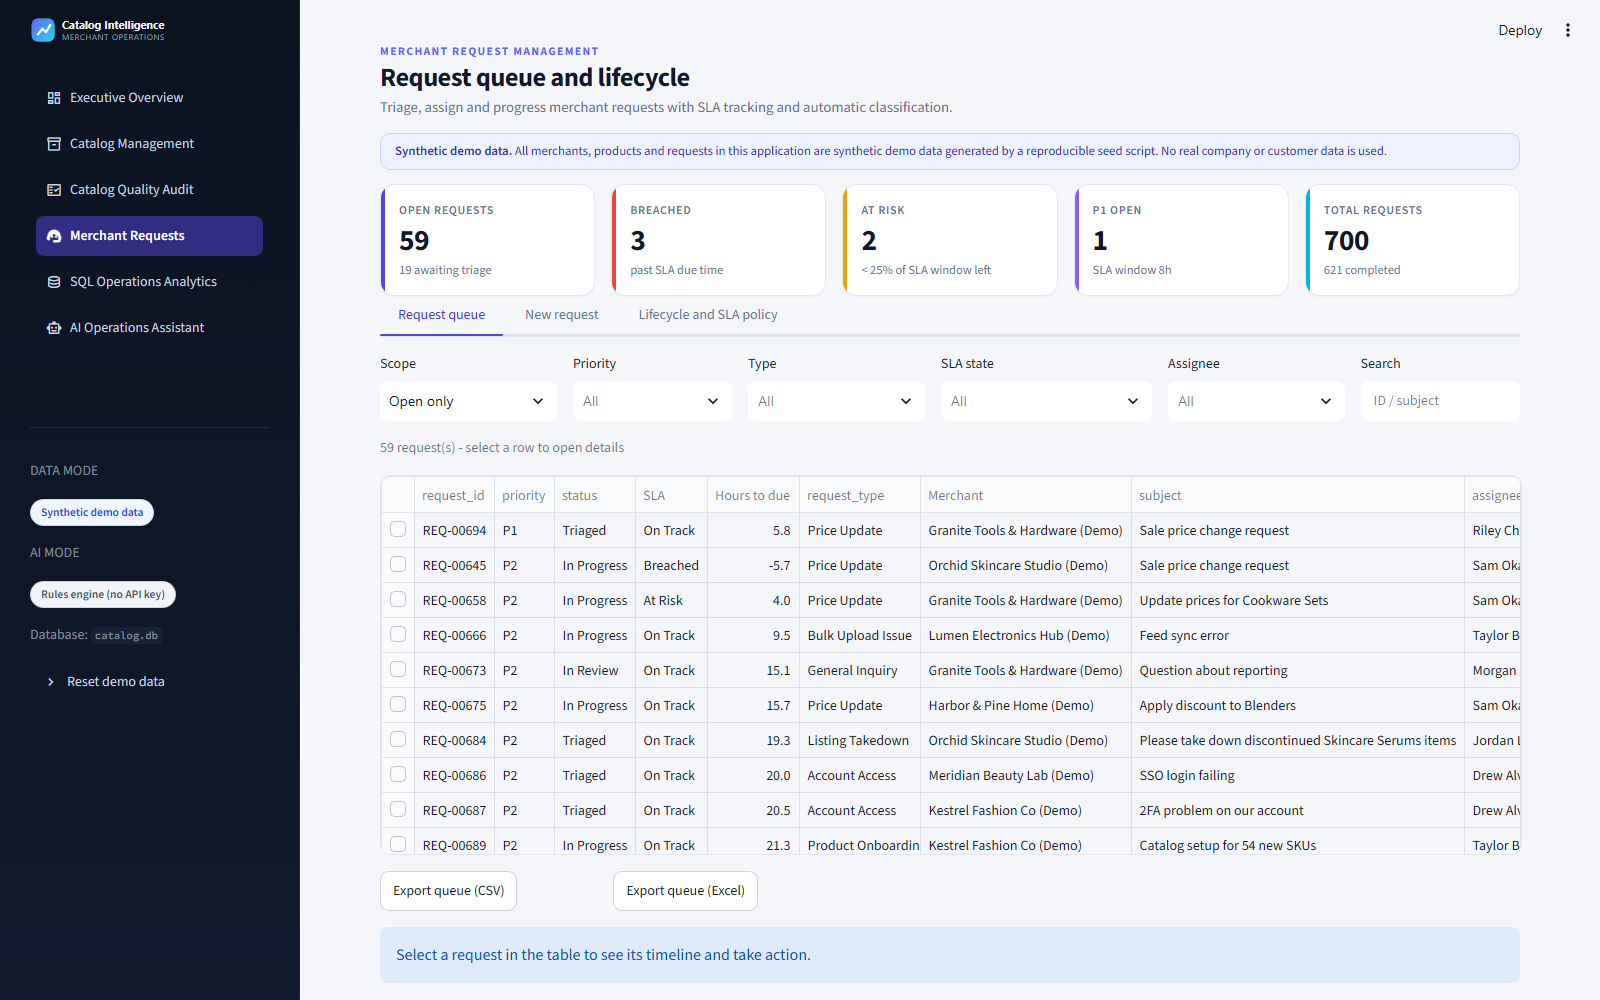
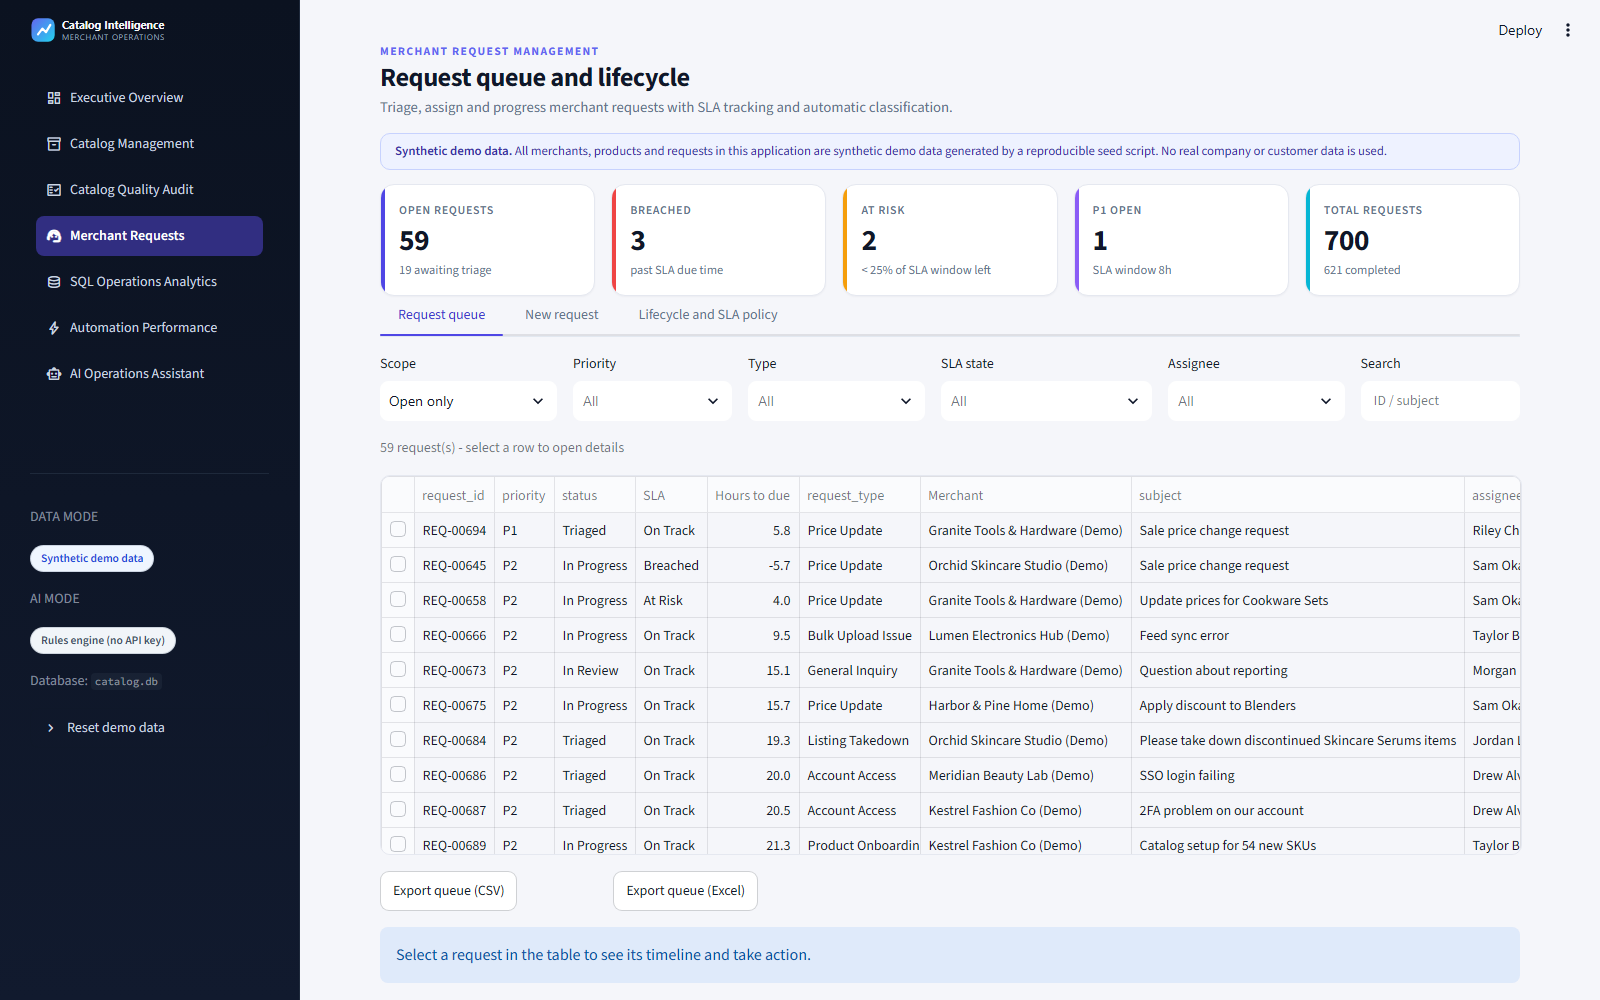
Add Automation Performance dashboard page and refresh screenshots
Generated with [Devin](https://devin.ai)

Changed region(s): [[0.0, 0.465, 0.125, 0.744], [0.0312, 0.372, 0.125, 0.403], [0.0312, 0.31, 0.125, 0.341]]

diff --git a/ui/p_automation.py b/ui/p_automation.py
@@ -1,0 +1,246 @@
+import json
+import time
+
+import pandas as pd
+import plotly.express as px
+import plotly.graph_objects as go
+import streamlit as st
+
+from catalog_intel import roi
+from catalog_intel.automation import Source, ensure_sandbox, load_history, reset_sandbox, run_pipeline
+from catalog_intel.config import ROOT, get_db_path
+from catalog_intel.db import query_df
+from catalog_intel.seed import MERCHANTS
+from catalog_intel.workload import generate_workload
+from ui.common import db, download_table, fmt_num, kpi_row, page_header, pill, section, show_fig
+
+MEASUREMENTS = ROOT / "docs" / "automation" / "measurements.json"
+COLORS = {"manual": "#f59e0b", "python": "#4f46e5", "rpa": "#06b6d4"}
+
+
+@st.cache_data(show_spinner=False)
+def load_measurements(mtime: float) -> dict | None:
+    return json.loads(MEASUREMENTS.read_text(encoding="utf-8")) if MEASUREMENTS.exists() else None
+
+
+def _legend() -> None:
+    st.markdown(
+        pill("MEASURED = timed by running the code", "good") + " &nbsp; " + pill("ESTIMATED = assumption-based (manual work was never timed)", "warn")
+        + " &nbsp; " + pill("SYNTHETIC data only", "info"), unsafe_allow_html=True,
+    )
+
+
+def render() -> None:
+    page_header("Automation Performance", "Automation impact dashboard", "Python automation and UI-driven RPA versus an estimated manual workflow, on an identical synthetic workload.")
+    _legend()
+    m = load_measurements(MEASUREMENTS.stat().st_mtime if MEASUREMENTS.exists() else 0.0)
+    with db(readonly=True) as c:
+        hist = load_history(c, 200)
+    if m is None:
+        st.warning("No measurement file found. Run `python scripts/measure_automation.py` to create docs/automation/measurements.json.")
+
+    tab_ba, tab_q, tab_m, tab_run, tab_hist = st.tabs(["Before / after", "Quality and errors", "Monthly estimate", "Run automation", "Run history"])
+
+    with tab_ba:
+        if m:
+            _before_after(m, hist)
+    with tab_q:
+        if m:
+            _quality(m)
+    with tab_m:
+        if m:
+            _monthly(m)
+    with tab_run:
+        _run_panel()
+    with tab_hist:
+        _history(hist)
+
+
+def _before_after(m: dict, hist: pd.DataFrame) -> None:
+    w, E, M = m["workload"], m["ESTIMATED"], m["MEASURED"]
+    py, rpa = M["python_automation"], M["ui_rpa"]
+    rows_done = int(hist["rows_valid"].sum()) if len(hist) else 0
+    kpi_row([
+        ("Time saved, end-to-end", fmt_num(E["time_saved_pct_python"], "%"), "<b>ESTIMATED</b> manual vs <b>MEASURED</b> run + est. human review", "#10b981"),
+        ("Productivity gain", f"{E['speedup_x_python']:,.1f}x", f"+{E['productivity_gain_pct_python']:,.0f}% - manual time is an <b>estimate</b>", "#4f46e5"),
+        ("Pipeline throughput", f"{py['rows_per_hour'] / 1e6:,.2f}M rows/h", "<b>MEASURED</b> machine time, median of %d runs" % py["runs"], "#06b6d4"),
+        ("Rows processed (history)", fmt_num(rows_done), f"<b>MEASURED</b> across {len(hist)} logged run(s)", "#8b5cf6"),
+        ("Est. monthly time saved", f"{E['monthly_saved_hours_at_4_runs']:,.1f} h", "<b>ESTIMATE</b> at 4 runs/month (see Monthly tab)", "#f59e0b"),
+    ])
+    st.caption(f"Workload: {w['files']} files, {w['rows_total']:,} rows ({w['xlsx_files']} Excel, rest CSV), synthetic, seed {w['seed']}. Measured {m['environment']['measured_at_utc']} UTC on {m['environment']['platform']}, "
+               f"{m['environment']['cpu_count_logical']} logical CPUs.")
+
+    table = pd.DataFrame(E["comparison_table"])
+    tasks = table[table["kind"] == "task"]
+    fig = go.Figure()
+    fig.add_bar(x=tasks["task"], y=tasks["manual_estimated_s"], name="Manual (ESTIMATED)", marker_color=COLORS["manual"], marker_pattern_shape="/")
+    if tasks["rpa_measured_s"].notna().any():
+        fig.add_bar(x=tasks["task"], y=tasks["rpa_measured_s"], name="UI RPA (MEASURED)", marker_color=COLORS["rpa"])
+    fig.add_bar(x=tasks["task"], y=tasks["python_measured_s"], name="Python automation (MEASURED)", marker_color=COLORS["python"])
+    fig.update_layout(barmode="group", yaxis=dict(type="log", title="Seconds (log scale)"), xaxis_title=None, legend_title=None)
+    show_fig(fig, 380, "Time per task - before vs after (same workload)")
+
+    c1, c2 = st.columns(2)
+    with c1:
+        tot = table[table["kind"] == "total_incl_review"].iloc[0]
+        labels, vals, cols = ["Manual (ESTIMATED)", "Python (MEASURED)"], [tot["manual_estimated_s"], tot["python_measured_s"]], [COLORS["manual"], COLORS["python"]]
+        if pd.notna(tot["rpa_measured_s"]):
+            labels.insert(1, "UI RPA (MEASURED)")
+            vals.insert(1, tot["rpa_measured_s"])
+            cols.insert(1, COLORS["rpa"])
+        fig = go.Figure(go.Bar(x=labels, y=vals, marker_color=cols, text=[f"{v:,.0f}s" for v in vals], textposition="outside"))
+        fig.update_layout(yaxis=dict(type="log", title="Total seconds (log)"), showlegend=False)
+        show_fig(fig, 330, "Total workflow time (incl. estimated human review after automation)")
+    with c2:
+        sv = tasks.copy()
+        fig = go.Figure(go.Bar(x=sv["python_time_saved_pct"], y=sv["task"], orientation="h", marker_color=COLORS["python"],
+                               text=[f"{v:.1f}%" for v in sv["python_time_saved_pct"]], textposition="outside", cliponaxis=False))
+        fig.update_yaxes(autorange="reversed")
+        fig.update_layout(xaxis=dict(range=[0, 112], title="% time saved by Python automation (vs ESTIMATED manual)"), yaxis_title=None, showlegend=False)
+        show_fig(fig, 330, "Time saved by task")
+
+    show = table.rename(columns={"manual_estimated_s": "Manual (ESTIMATED) s", "python_measured_s": "Python (MEASURED) s", "rpa_measured_s": "UI RPA (MEASURED) s",
+                                 "python_time_saved_pct": "Python saved %", "python_speedup_x": "Speed-up x", "rpa_time_saved_pct": "RPA saved %"})
+    st.dataframe(show, hide_index=True, width="stretch")
+    st.caption(f"Headline numbers include {E['automation_review_s']:.0f} s of ESTIMATED human review per run that remains after automation; machine time alone would show "
+               f"{E['time_saved_pct_python_machine_only']}% saved ({E['speedup_x_python_machine_only']:,.0f}x), which overstates the benefit. "
+               "UI RPA is browser-driven and excludes human reading/thinking time, so it is a lower bound for a manual click-through. "
+               "Manual time = unit-time assumptions x workload size (see the Monthly tab); it is an estimate, not a stopwatch measurement of people.")
+    s = M["scale_test_python_automation"]
+    if s:
+        st.markdown(f"**Scale test (MEASURED, Python):** {s['rows']:,} rows in {s['files']} files in **{s['seconds_total']} s** ({s['rows_per_second']:,.0f} rows/s), peak memory {s['peak_rss_mb']} MB. "
+                    f"Manual ESTIMATE for the same rows: {s['manual_estimated_total_s'] / 3600:,.1f} h.")
+
+
+def _quality(m: dict) -> None:
+    acc = m["MEASURED"]["detection_accuracy_vs_ground_truth"]
+    tot = acc["TOTAL_omissions"]
+    kpi_row([
+        ("Omissions: automation", fmt_num(tot["automation_missed"]), "defects missed - <b>MEASURED</b>", "#10b981"),
+        ("Omissions: Excel-style baseline", fmt_num(tot["baseline_missed"]), "same data - <b>simulated procedure</b>", "#f59e0b"),
+        ("Omission reduction", fmt_num(tot["omission_reduction_pct"], "%"), "vs the baseline procedure (not vs people)", "#4f46e5"),
+        ("Injected defects", fmt_num(tot["injected_total"]), "ground truth in the synthetic files", "#06b6d4"),
+    ])
+    names = {"duplicate": "Duplicate listings", "price_anomaly": "Price anomalies", "missing_image": "Missing images", "invalid_rows": "Invalid rows"}
+    rows = []
+    for k, label in names.items():
+        a, b = acc[k]["automation"], acc[k]["excel_style_baseline"]
+        rows.append({"defect": label, "injected": a["injected"], "automation_missed": a["missed"], "baseline_missed": b["missed"],
+                     "automation_recall": a.get("recall"), "baseline_recall": b.get("recall"), "automation_precision": a.get("precision"), "baseline_precision": b.get("precision")})
+    df = pd.DataFrame(rows)
+    fig = go.Figure()
+    fig.add_bar(x=df["defect"], y=df["baseline_missed"], name="Excel-style baseline (simulated procedure)", marker_color=COLORS["manual"], marker_pattern_shape="/")
+    fig.add_bar(x=df["defect"], y=df["automation_missed"], name="Automation (MEASURED)", marker_color=COLORS["python"])
+    fig.update_layout(barmode="group", yaxis_title="Defects missed", xaxis_title=None, legend_title=None)
+    show_fig(fig, 340, "Missed defects on the same synthetic files")
+    st.dataframe(df, hide_index=True, width="stretch")
+    st.caption("The baseline encodes what built-in spreadsheet features can do (blank-cell counts, Remove Duplicates on trimmed titles, an IQR fence over the whole price column, blank-image filter). "
+               "It is a deterministic procedure, not a measurement of any person; it shows how much a rule-based pipeline finds that simple spreadsheet checks do not.")
+
+
+def _monthly(m: dict) -> None:
+    w, M = m["workload"], m["MEASURED"]
+    st.markdown("**ESTIMATE calculator.** Everything here is assumption-driven; only the automated run time comes from measurement (scaled linearly with rows).")
+    c1, c2, c3 = st.columns(3)
+    runs = c1.slider("Runs per month", 1, 60, 4)
+    rows = c2.number_input("Rows per run", 100, 200_000, int(w["rows_total"]), step=500)
+    mult = c3.slider("Manual-time multiplier (sensitivity)", 0.25, 3.0, 1.0, 0.25, help="1.0 = the default unit times; 0.5 = analysts are twice as fast as assumed.")
+    with st.expander("Manual unit-time assumptions (seconds) - ESTIMATES, editable"):
+        a = {}
+        cols = st.columns(3)
+        for i, (k, v) in enumerate(roi.DEFAULT_ASSUMPTIONS.items()):
+            a[k] = cols[i % 3].number_input(k.replace("_", " "), 0.0, 5000.0, float(m["ESTIMATED"]["manual_time_assumptions_s"].get(k, v)), key=f"asm_{k}")
+    files = max(1, round(rows / (w["rows_total"] / w["files"])))
+    manual = roi.total(roi.manual_estimate(int(rows), files, a, mult))
+    auto = roi.scale_run_time(M["python_automation"]["sum_of_median_steps_s"], w["rows_total"], int(rows)) + a["automation_review_per_run"]
+    saved = roi.monthly_savings_hours(manual, auto, runs)
+    kpi_row([
+        ("Manual time per run", f"{manual / 3600:,.2f} h", "<b>ESTIMATE</b>", "#f59e0b"),
+        ("Automated time per run", f"{auto / 60:,.2f} min", "<b>MEASURED</b> machine time (scaled linearly) + <b>est.</b> review", "#4f46e5"),
+        ("Time saved / month", f"{saved:,.1f} h", f"<b>ESTIMATE</b> at {runs} runs", "#10b981"),
+        ("Time saved %", fmt_num(roi.time_saved_pct(manual, auto), "%"), "<b>ESTIMATE</b>", "#06b6d4"),
+    ])
+    xs = list(range(1, 61))
+    fig = go.Figure(go.Scatter(x=xs, y=[roi.monthly_savings_hours(manual, auto, r) for r in xs], mode="lines", line=dict(color=COLORS["python"], width=3)))
+    fig.add_vline(x=runs, line_dash="dash", line_color="#64748b")
+    fig.update_layout(xaxis_title="Runs per month", yaxis_title="Estimated hours saved per month", showlegend=False)
+    show_fig(fig, 300, "Estimated monthly time saved (assumption-based)")
+    st.caption("Linear scaling of the automated time is a simplification; the 100,000-row scale test in the first tab is the measured data point for large runs.")
+
+
+def _run_panel() -> None:
+    main_db = get_db_path()
+    sandbox = main_db.parent / "automation_sandbox.db"
+    st.markdown("Run the **Python automation** (collect -> validate -> import -> duplicate / price / image checks -> report -> CSV & Excel export) on synthetic files or your own. "
+                "The default target is an isolated **sandbox catalog**, so the demo data is never modified.")
+    target = st.radio("Target catalog", ["Sandbox (recommended, isolated)", "Demo catalog (modifies demo data)"], horizontal=True)
+    use_main = target.startswith("Demo")
+    if use_main:
+        st.warning("Files will be imported into the demo catalog. Use **Reset demo data** in the sidebar afterwards to restore it.")
+    source = st.radio("Input files", ["Generate synthetic files", "Upload my own CSV/XLSX files"], horizontal=True)
+    sources: list[Source] = []
+    default_merchant = None
+    label = None
+    if source.startswith("Generate"):
+        c1, c2, c3 = st.columns(3)
+        n_files = c1.slider("Files", 1, 10, 4)
+        rows = c2.slider("Rows per file", 50, 500, 200, 50)
+        fresh = c3.checkbox("New random data each run", value=True, help="Off = identical files every time; the automation then skips them as already imported (idempotency).")
+        if st.button("Run Python automation", type="primary", key="run_py_gen"):
+            seed = int(time.time()) % 1_000_000 if fresh else 777
+            wl = generate_workload(n_files, rows, seed=seed)
+            sources = [Source(n, d) for n, d in wl.files]
+            label = f"synthetic ui run seed={seed} files={n_files} rows/file={rows}"
+    else:
+        default_merchant = st.selectbox("Merchant for files not named M-001_*.csv", [m[0] for m in MERCHANTS], format_func=lambda x: dict((m[0], f"{m[0]} - {m[1]}") for m in MERCHANTS)[x])
+        files = st.file_uploader("Files (name them M-001_anything.csv to route by merchant)", type=["csv", "xlsx"], accept_multiple_files=True, key="auto_files")
+        if st.button("Run Python automation", type="primary", key="run_py_upload", disabled=not files):
+            sources = [Source(f.name, f.getvalue()) for f in files]
+            label = "user-uploaded files"
+    if sources:
+        try:
+            target_db = main_db if use_main else ensure_sandbox(sandbox)
+            res = run_pipeline(sources, target_db, history_db=main_db, trigger="ui", target_label="demo" if use_main else "sandbox", workload_label=label, default_merchant=default_merchant)
+            st.session_state["auto_result"] = res
+            if use_main:
+                st.cache_data.clear()
+            st.rerun()
+        except Exception as exc:  # noqa: BLE001
+            st.error(f"Automation could not start: {exc}")
+    res = st.session_state.get("auto_result")
+    if res is not None:
+        (st.success if res.status == "success" else st.warning if res.status in ("partial", "nothing_to_do") else st.error)(
+            f"Run #{res.run_id}: **{res.status}** in {res.seconds_total:.2f} s - {res.totals['files_imported']} imported, {res.totals['files_skipped']} skipped (already imported), "
+            f"{res.totals['files_failed']} failed; {res.totals['rows_valid']:,} valid rows, {res.totals['rows_rejected']} rejected." + (f" Error: {res.error}" if res.error else "")
+        )
+        kpi_row([
+            ("Duplicates found", fmt_num(res.findings_run_scope["duplicates"]), "this run's rows", "#ef4444"),
+            ("Price anomalies", fmt_num(res.findings_run_scope["price_anomalies"]), "this run's rows", "#f59e0b"),
+            ("Missing images", fmt_num(res.findings_run_scope["missing_images"]), "this run's rows", "#06b6d4"),
+            ("Rejected rows", fmt_num(res.totals["rows_rejected"]), "failed validation", "#8b5cf6"),
+        ])
+        st.dataframe(pd.DataFrame([{"step": k, "seconds": v} for k, v in res.step_seconds.items()]), hide_index=True, width="stretch")
+        st.dataframe(pd.DataFrame([{"file": o.name, "merchant": o.merchant_id, "status": o.status, "rows": o.rows_total, "valid": o.rows_valid, "rejected": o.rows_rejected, "error": o.error} for o in res.files]),
+                     hide_index=True, width="stretch")
+        if res.outputs:
+            st.download_button("Download all outputs (ZIP: HTML report, Excel report, CSV/Excel findings)", lambda: res.zip_bytes(), f"automation_run_{res.run_id}.zip", "application/zip", on_click="ignore", key="auto_zip")
+    with st.expander("Sandbox maintenance"):
+        st.caption(f"Sandbox database: `{sandbox.name}` (separate from the demo catalog).")
+        if st.button("Reset sandbox (empty it)", key="reset_sandbox"):
+            reset_sandbox(sandbox)
+            st.session_state.pop("auto_result", None)
+            st.rerun()
+
+
+def _history(hist: pd.DataFrame) -> None:
+    section("Automation run history")
+    if hist.empty:
+        st.info("No runs recorded yet. Use **Run automation** (or `python scripts/run_automation.py`, or the RPA bot with `--db`) to create entries.")
+        return
+    cols = ["run_id", "started_at", "mode", "trigger_source", "target", "status", "files_total", "files_imported", "files_failed", "files_skipped", "rows_valid", "rows_rejected",
+            "duplicates", "price_anomalies", "missing_images", "seconds_total", "workload_label", "error"]
+    st.dataframe(hist[cols], hide_index=True, width="stretch", height=360)
+    fig = px.bar(hist.sort_values("run_id").tail(30), x="run_id", y="seconds_total", color="mode", color_discrete_map={"python": COLORS["python"], "rpa_ui": COLORS["rpa"]})
+    fig.update_layout(xaxis_title="Run id", yaxis_title="Seconds", legend_title=None)
+    show_fig(fig, 300, "Duration of the latest runs (all values MEASURED)")
+    download_table(hist, "automation_runs", "Export history", sheet="Runs")

diff --git a/scripts/capture_screenshots.py b/scripts/capture_screenshots.py
@@ -86,6 +86,26 @@ def main() -> None:
         page.screenshot(path=str(OUT / "05b_sql_verification.png"))
         print("saved 05b_sql_verification")
 
+        # automation performance dashboard (run the Python automation once in the sandbox so the history is not empty)
+        open_page(page, base, "automation")
+        page.screenshot(path=str(OUT / "07_automation_before_after.png"))
+        page.get_by_role("tab", name="Quality and errors").click()
+        page.wait_for_timeout(1500)
+        page.screenshot(path=str(OUT / "07b_automation_quality.png"))
+        page.get_by_role("tab", name="Monthly estimate").click()
+        page.wait_for_timeout(1500)
+        page.screenshot(path=str(OUT / "07c_automation_monthly.png"))
+        page.get_by_role("tab", name="Run automation").click()
+        page.wait_for_timeout(1000)
+        page.get_by_role("button", name="Run Python automation").first.click()
+        page.get_by_text("Download all outputs").wait_for(timeout=120000)
+        page.wait_for_timeout(1500)
+        page.screenshot(path=str(OUT / "07d_automation_run.png"))
+        page.get_by_role("tab", name="Run history").click()
+        page.wait_for_timeout(1500)
+        page.screenshot(path=str(OUT / "07e_automation_history.png"))
+        print("saved 07 automation screenshots")
+
         # assistant conversation
         open_page(page, base, "assistant")
         page.get_by_role("button", name="Which requests are breaching SLA?").click()

diff --git a/app.py b/app.py
@@ -7,7 +7,7 @@ from catalog_intel import ai  # noqa: E402
 from catalog_intel.config import ROOT, get_db_path  # noqa: E402
 from catalog_intel.seed import seed_database  # noqa: E402
 from ui import common  # noqa: E402
-from ui import p_assistant, p_audit, p_catalog, p_overview, p_requests, p_sql  # noqa: E402
+from ui import p_assistant, p_audit, p_automation, p_catalog, p_overview, p_requests, p_sql  # noqa: E402
 
 common.inject_css()
 try:
@@ -25,6 +25,7 @@ pages = [
     st.Page(p_audit.render, title="Catalog Quality Audit", icon=":material/fact_check:", url_path="audit"),
     st.Page(p_requests.render, title="Merchant Requests", icon=":material/support_agent:", url_path="requests"),
     st.Page(p_sql.render, title="SQL Operations Analytics", icon=":material/database:", url_path="sql"),
+    st.Page(p_automation.render, title="Automation Performance", icon=":material/bolt:", url_path="automation"),
     st.Page(p_assistant.render, title="AI Operations Assistant", icon=":material/smart_toy:", url_path="assistant"),
 ]
 nav = st.navigation(pages, position="sidebar")

diff --git a/tests/test_ui_smoke.py b/tests/test_ui_smoke.py
@@ -82,3 +82,13 @@ def test_assistant_live_ping_is_logged_with_fake_llm(monkeypatch):
     assert not at.exception
     assert any("status=ok" in s.value for s in at.success)
     assert any(m.label == "Calls logged" and int(m.value) >= 1 for m in at.metric)
+
+
+def test_automation_dashboard_renders_and_runs_pipeline():
+    at = _app("p_automation").run()
+    assert not at.exception, [e.value for e in at.exception]
+    html = " ".join(m.value for m in at.markdown)
+    assert "MEASURED" in html and "ESTIMATED" in html and "SYNTHETIC" in html
+    at.button(key="run_py_gen").click().run()
+    assert not at.exception, [e.value for e in at.exception]
+    assert any("Run #" in s.value and "success" in s.value for s in at.success)
